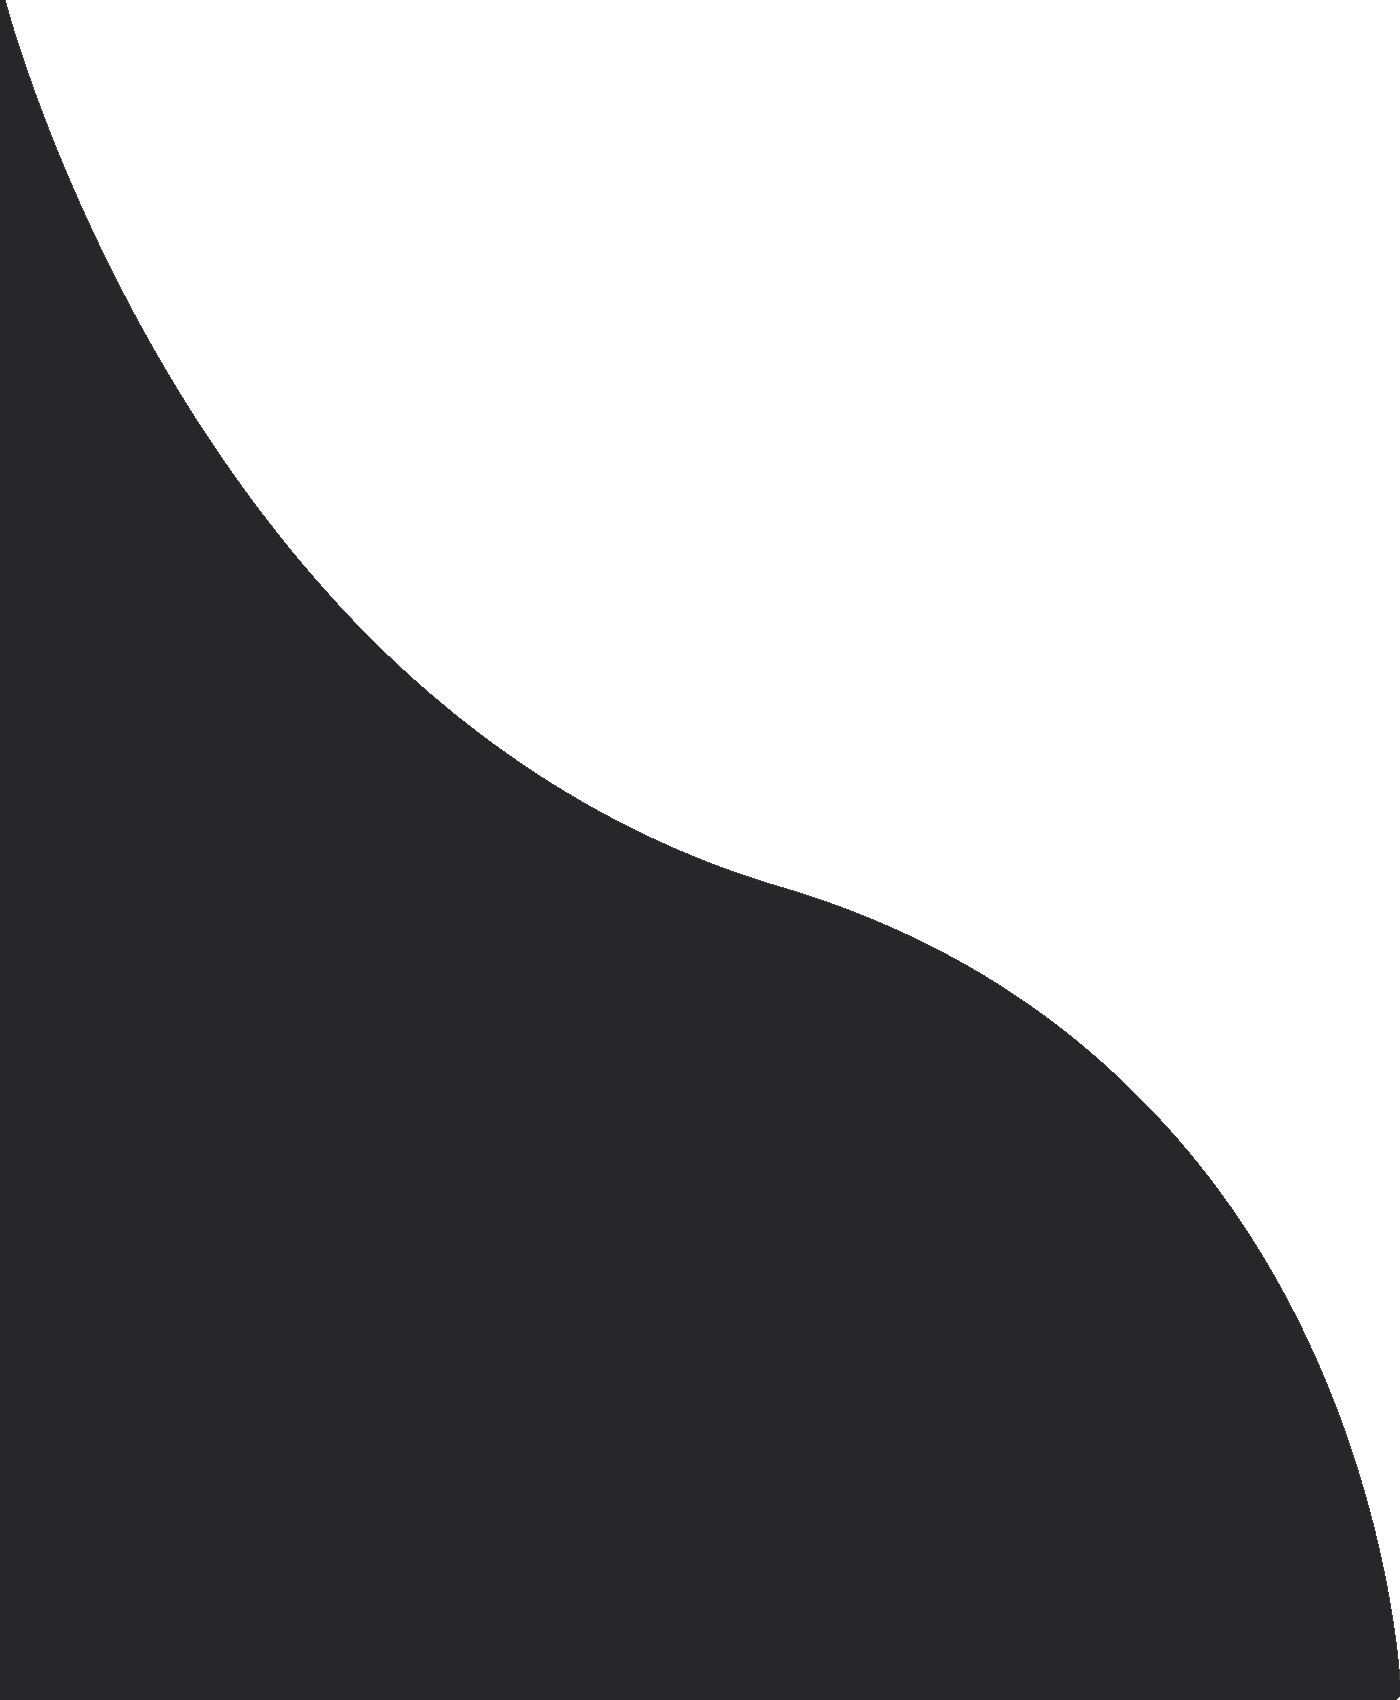
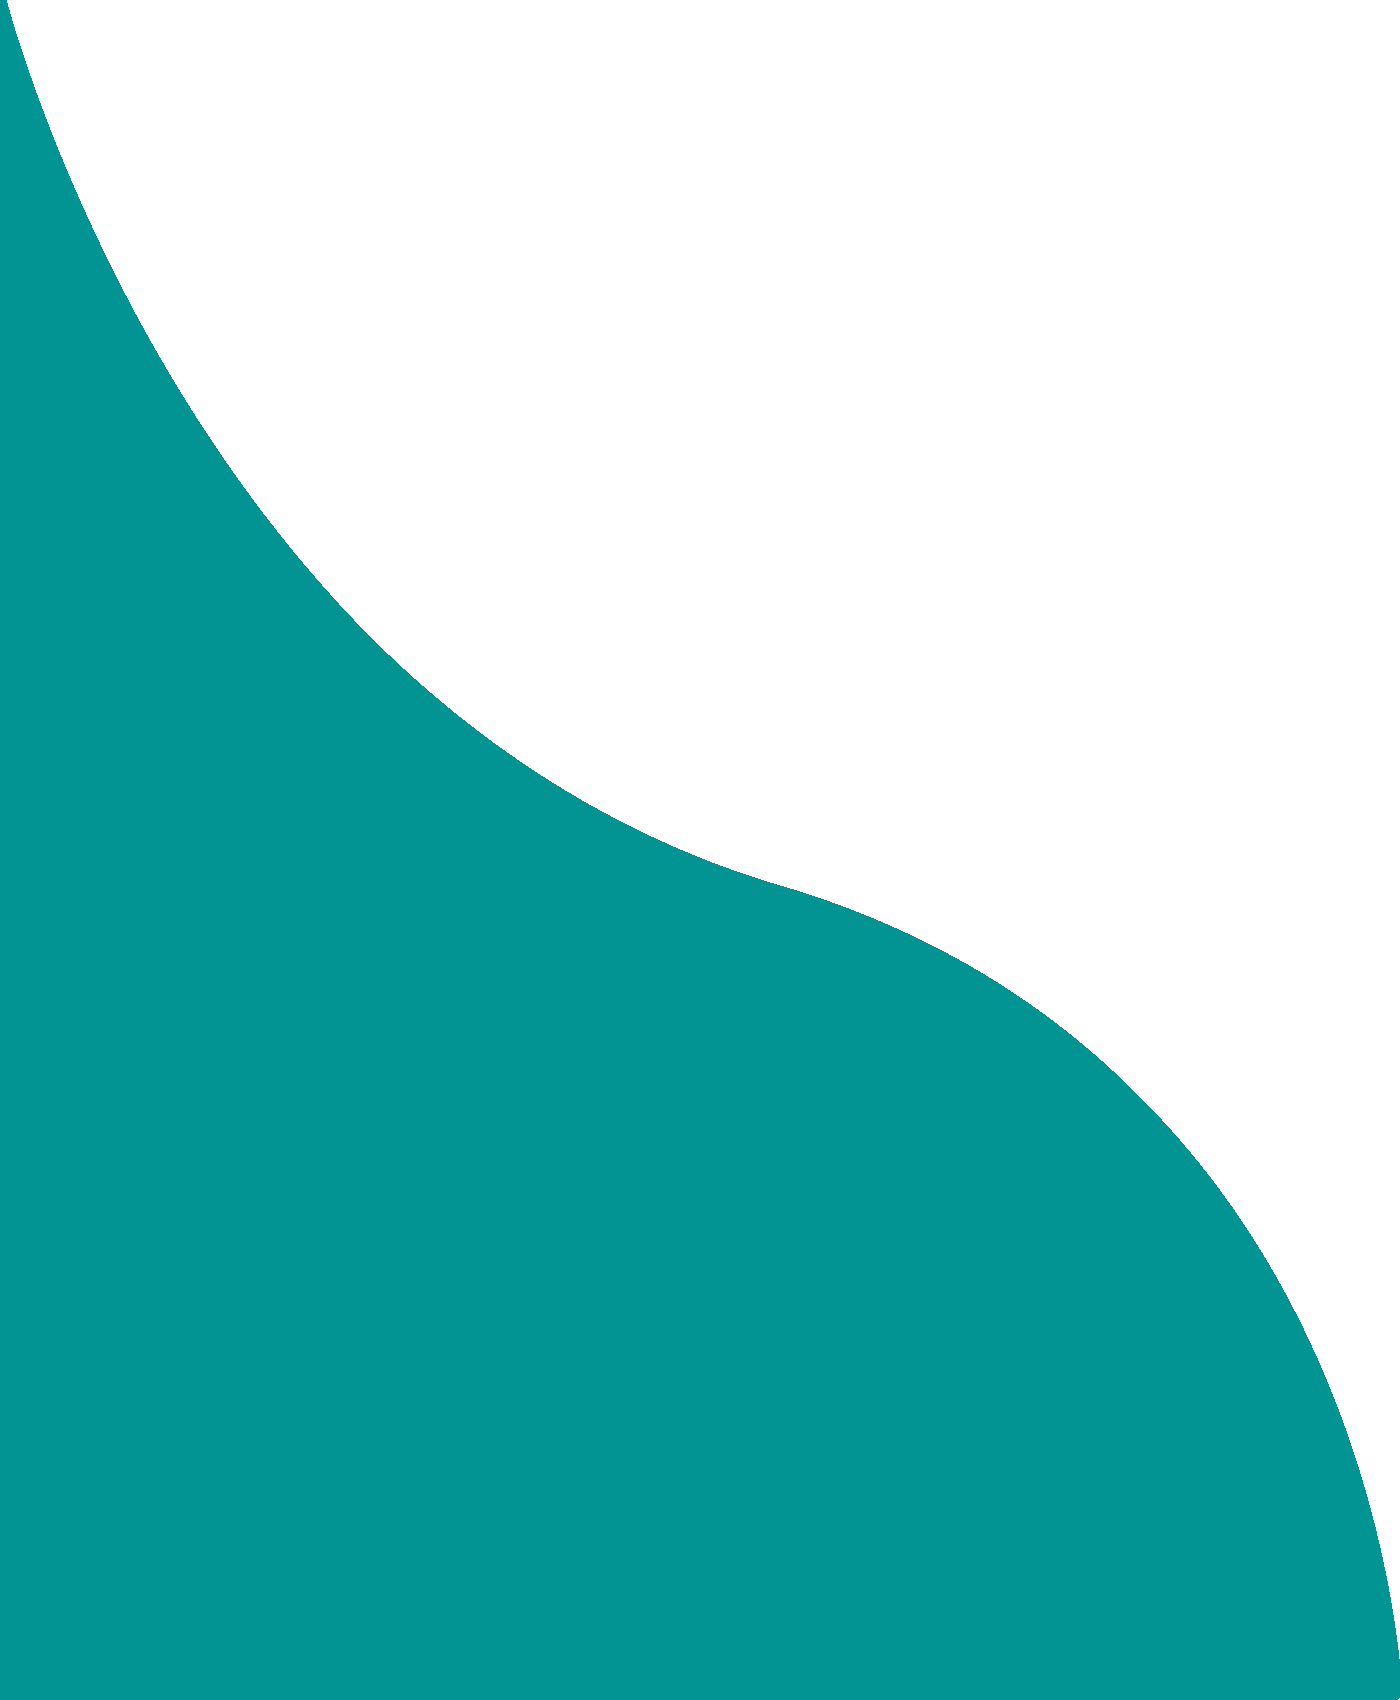
Avanzando

diff --git a/src/app/auth/login/login.component.html b/src/app/auth/login/login.component.html
@@ -1,4 +1,4 @@
-<div style="background-color:#e0e1e6">
+<div>
     <img class="gsap-fondo fixed hidden lg:block inset-0 h-full"  src="assets/img/login/wave.png">
     <div class="w-screen h-screen flex flex-col justify-center items-center lg:grid lg:grid-cols-2">
         <!-- <img class="hidden gsap-imagen lg:block w-1/2 transform mx-auto" src="assets/img/login/unlock.svg"> -->
@@ -10,11 +10,11 @@
             <p class="font-semibold text-primary-900"> Versión 0.0.1 </p>
             <div class="relative mt-8">
                 <svg width="20" height="20" viewBox="0 0 24 24" fill="none" stroke="currentColor" stroke-width="2" stroke-linecap="round" stroke-linejoin="round" class="feather feather-user absolute text-primary-800"><path d="M20 21v-2a4 4 0 0 0-4-4H8a4 4 0 0 0-4 4v2"></path><circle cx="12" cy="7" r="4"></circle></svg>
-                <input style="background-color:#e0e1e6" type="text" formControlName="username" class="transition-all duration-500 pl-8 border-b-2 border-primary-700 font-display outline-none focus:outline-none focus:border-secondaryColor text-lg" placeholder="Usuario" />
+                <input type="text" formControlName="username" class="transition-all duration-500 pl-8 border-b-2 border-primary-700 font-display outline-none focus:outline-none focus:border-secondaryColor text-lg" placeholder="Usuario" />
             </div>
             <div class="relative mt-8">
                 <svg width="20" height="20" viewBox="0 0 24 24" fill="none" stroke="currentColor" stroke-width="2" stroke-linecap="round" stroke-linejoin="round" class="feather feather-lock absolute text-primary-800"><rect x="3" y="11" width="18" height="11" rx="2" ry="2"></rect><path d="M7 11V7a5 5 0 0 1 10 0v4"></path></svg>
-                <input style="background-color:#e0e1e6" type="password" formControlName="password" class="transition-all duration-500 pl-8 border-b-2 border-primary-700 font-display outline-none focus:outline-none focus:border-secondaryColor text-lg" placeholder="Contraseña" />
+                <input type="password" formControlName="password" class="transition-all duration-500 pl-8 border-b-2 border-primary-700 font-display outline-none focus:outline-none focus:border-secondaryColor text-lg" placeholder="Contraseña" />
             </div>
             <button class="py-3 px-20 bg-primary-800 rounded-full text-white font-bold uppercase text-lg mt-8 transform hover:translate-y-1 hover:bg-secondaryColor transition-all duration-500"> Ingresar </button>
         </form>

diff --git a/src/app/pages/productos/productos.component.html b/src/app/pages/productos/productos.component.html
@@ -156,7 +156,7 @@
                               <option value="50"> 50 elementos </option>
                               <option value="100"> 100 elementos </option>
                           </select>
-                          <button title="Solo productos con alerta de stock" [ngClass]="{'bg-red-50 border-red-400 text-red-700' : filtro.alerta_stock }" (click)="alertaStockMinimo()" class="border mt-2 md:mt-0 hover:text-secondaryColor border-gray-400 w-max focus:outline-none shadow p-2 rounded ml-2">
+                          <button title="Solo productos con alerta de stock" [ngClass]="{'bg-red-50 border-red-400 text-red-700' : filtro.alerta_stock }" (click)="alertaStockMinimo()" class="border mt-2 md:mt-0 hover:text-red-700 border-gray-400 w-max focus:outline-none shadow p-2 rounded ml-2">
                             <svg xmlns="http://www.w3.org/2000/svg" class="h-5 w-5" fill="none" viewBox="0 0 24 24" stroke="currentColor" stroke-width="2">
                                 <path stroke-linecap="round" stroke-linejoin="round" d="M5 8h14M5 8a2 2 0 110-4h14a2 2 0 110 4M5 8v10a2 2 0 002 2h10a2 2 0 002-2V8m-9 4h4" />
                             </svg>  

diff --git a/src/app/shared/header/header.component.html b/src/app/shared/header/header.component.html
@@ -21,7 +21,7 @@
     <ul class="mt-5 text-sm">
 
         <!-- Home -->
-        <li routerLinkActive="bg-primaryColor text-primary-900 font-semibold rounded" routerLink="home" class="flex transform hover:translate-x-2 duration-500 items-center outline-none cursor-pointer p-2">
+        <li routerLinkActive="bg-secondaryColor text-white font-semibold rounded" routerLink="home" class="flex transform hover:translate-x-2 duration-500 items-center outline-none cursor-pointer p-2">
             <svg xmlns="http://www.w3.org/2000/svg" class="h-5 w-5" fill="none" viewBox="0 0 24 24" stroke="currentColor">
                 <path stroke-linecap="round" stroke-linejoin="round" stroke-width="2" d="M3 12l2-2m0 0l7-7 7 7M5 10v10a1 1 0 001 1h3m10-11l2 2m-2-2v10a1 1 0 01-1 1h-3m-6 0a1 1 0 001-1v-4a1 1 0 011-1h2a1 1 0 011 1v4a1 1 0 001 1m-6 0h6" />
               </svg>

diff --git a/src/app/pages/home/home.component.html b/src/app/pages/home/home.component.html
@@ -1,8 +1,8 @@
 <div class="mr-auto h-full ml-auto text-center">
-    <div class="md:flex justify-center pt-14">
-        <div class="gsap-contenido bg-primaryColor p-10 shadow border border-gray-300">
+    <div class="md:flex justify-center pt-5">
+        <div class="gsap-contenido p-10">
             <!-- <img class="w-2/3 mr-auto ml-auto rounded" src="assets/img/home/home.svg" alt="Home"> -->
-            <img src="assets/img/login/Logo.png" class="mx-auto bg-primaryColor md:w-full" alt="Logo de venezia">
+            <img src="assets/img/login/Logo.png" class="mx-auto w-1/2 md:w-4/5" alt="Logo de venezia">
             <div class="mx-auto mt-6">
                 <p class="text-xl font-semibold text-primary-800"> Sistema de gestión comercial </p>
                 <p class="font-semibold text-gray-800"> Versión 0.0.1 </p>

diff --git a/src/app/shared/header/components/items/items.component.ts b/src/app/shared/header/components/items/items.component.ts
@@ -12,7 +12,7 @@ export class ItemsComponent implements OnInit {
 
   @Input() item: string;
   @Input() route: string;
-  @Input() routerLinkActive: string = 'bg-primaryColor font-semibold text-primary-800 rounded';
+  @Input() routerLinkActive: string = 'bg-secondaryColor text-white font-semibold rounded';
   @Input() svg: string;
 
   ngOnInit(): void {

diff --git a/src/app/pages/presupuestos/nuevo-presupuesto.component.html b/src/app/pages/presupuestos/nuevo-presupuesto.component.html
@@ -200,7 +200,7 @@
         </svg>      
       </button>
     </div>
-    <div class="p-4 text-sm">
+    <div (keyup.enter)="seleccionarClientePresupuesto()" class="p-4 text-sm">
       <div>
         <p class="font-semibold"> <span class="text-red-500"> * </span> Descripción </p>
         <div *ngIf="clienteSeleccionado" class="flex items-center mt-1">

diff --git a/tailwind.config.js b/tailwind.config.js
@@ -14,7 +14,7 @@ module.exports = {
         extend: {
             colors: {
                 primaryColor: "#e0e1e6",
-                secondaryColor: "#273689",
+                secondaryColor: "#429996",
                 thirdColor: '#fbb984',
                 background: colors.gray,
                 primary: colors.gray,

diff --git a/src/app/services/alert.service.ts b/src/app/services/alert.service.ts
@@ -6,7 +6,7 @@ import Swal from 'sweetalert2';
 })
 export class AlertService {
 
-  public colorButton: string = '#273689';
+  public colorButton: string = '#429996';
 
   constructor() { }
   
